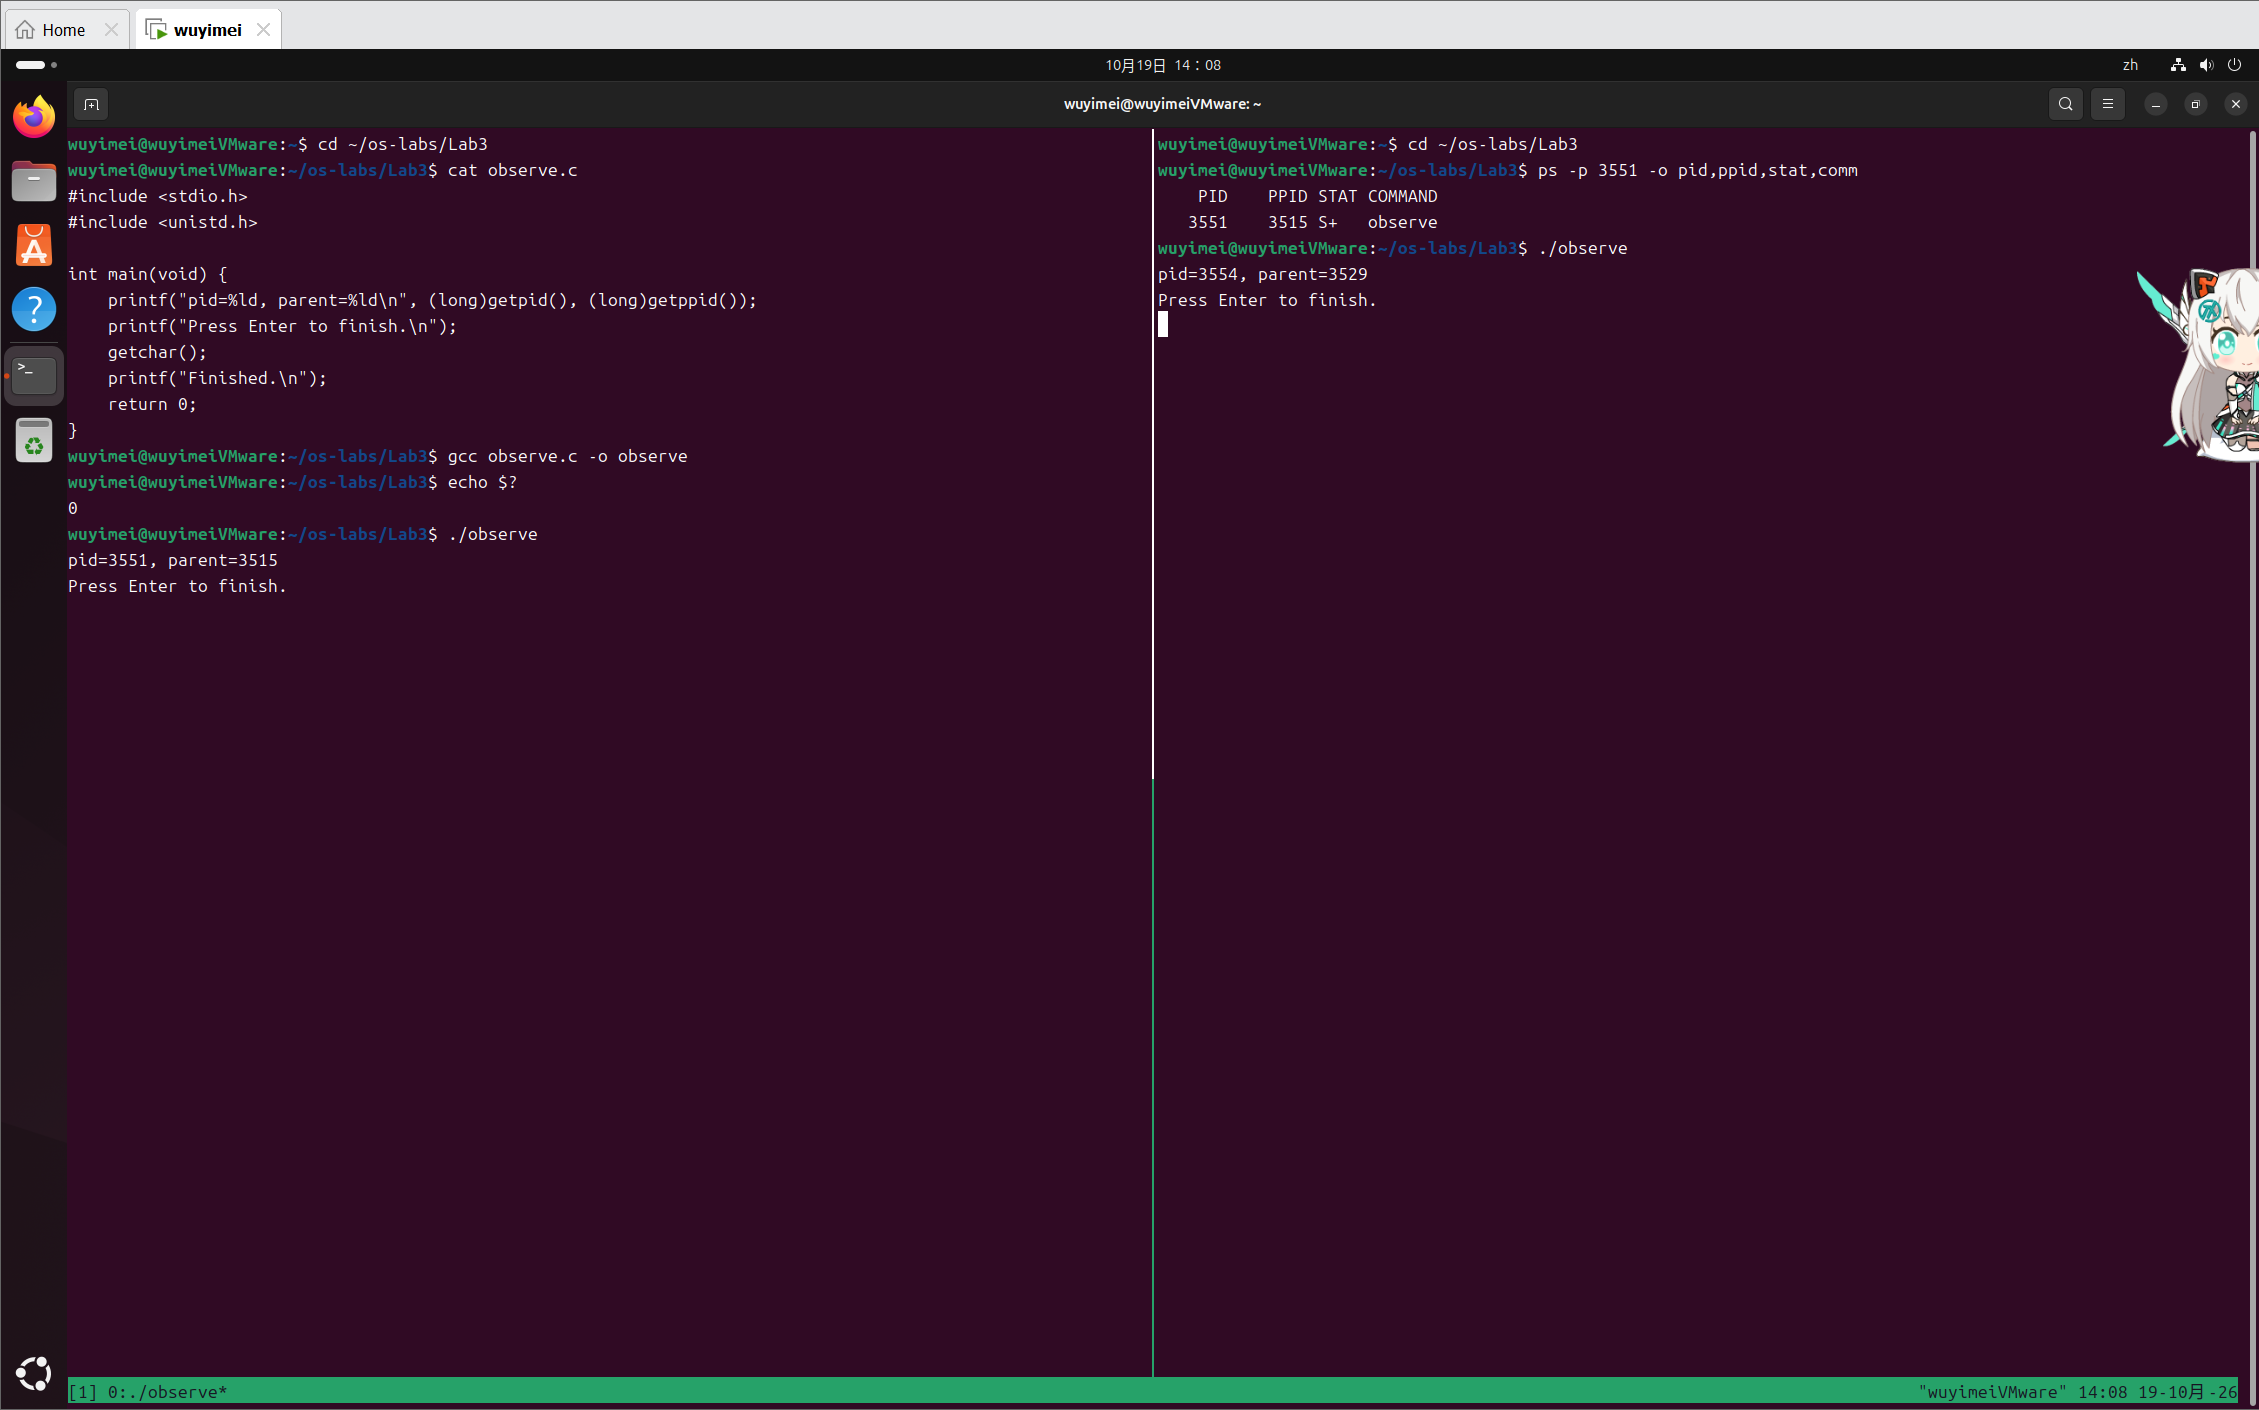
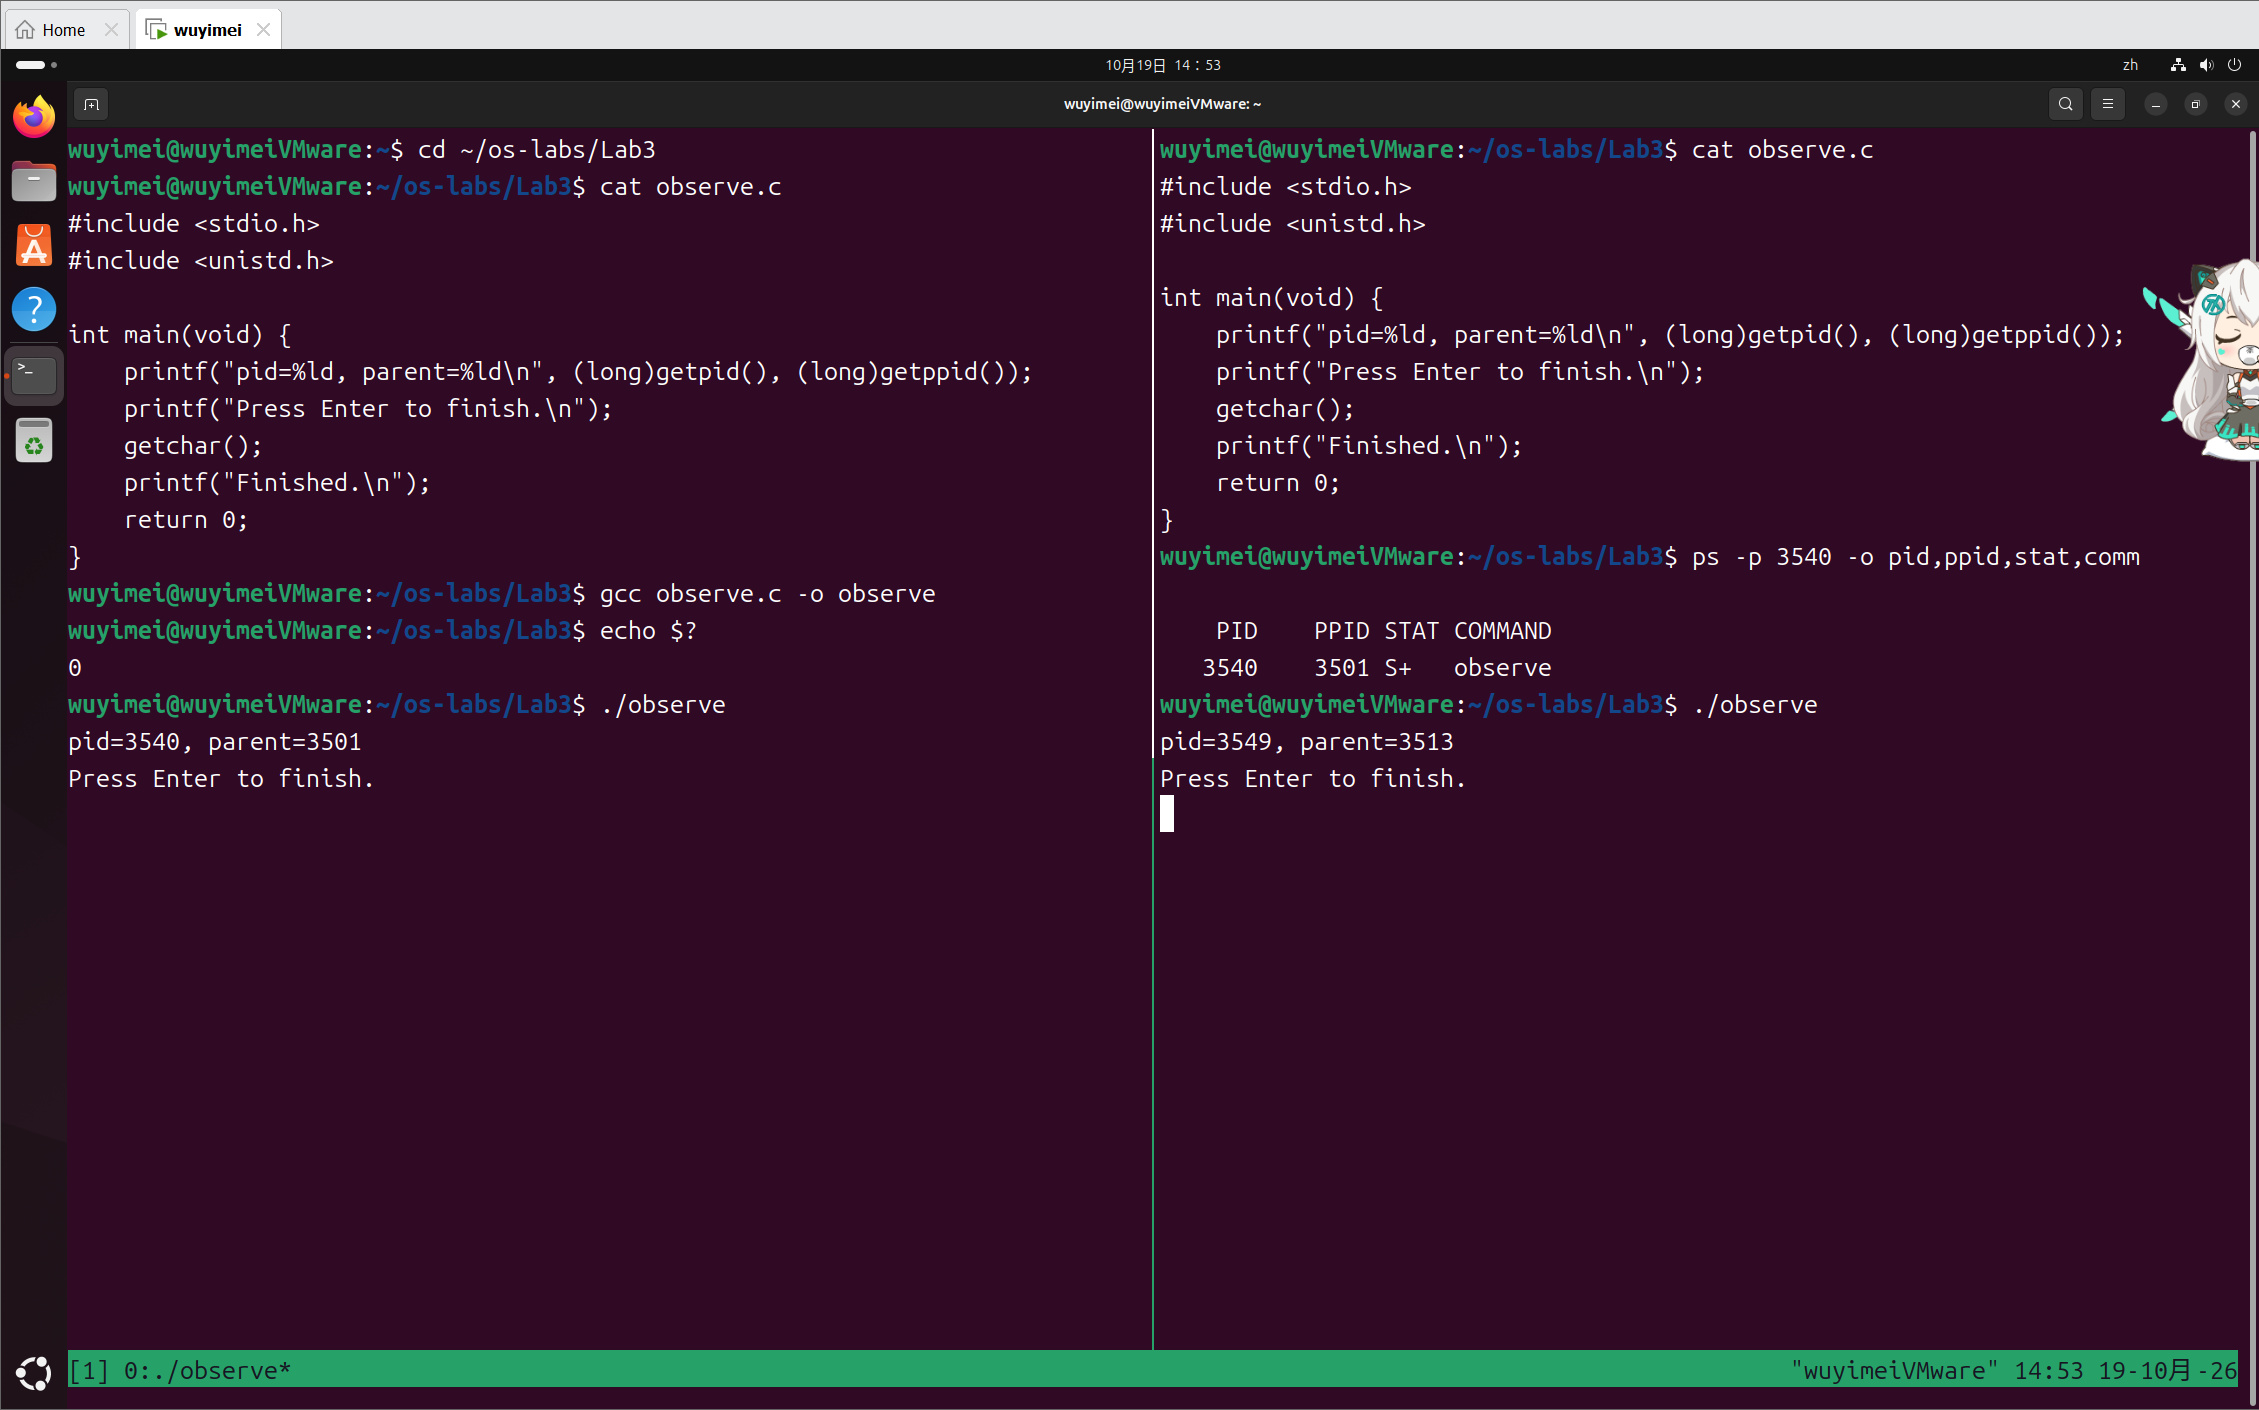
imgs

diff --git a/2026333038吴依镁/Lab3/Lab3.md b/2026333038吴依镁/Lab3/Lab3.md
@@ -250,8 +250,8 @@ ps -p 2401 -o pid,ppid,stat,comm
 
 | 字段 | observe 自己输出 | ps 查询输出 | 是否一致或如何解释 |
 | :--- | :--- | :--- | :--- |
-| PID | 3551|3551 |是 |
-| PPID | 3515| 3515|是 |
+| PID | 3540|3501 |是 |
+| PPID | 3540| 3501|是 |
 | STAT | 不由 observe 显示 |S+ |不一致，observe程序本身没有获取并打印进程状态的代码； S+ 表示该进程是前台可中断睡眠状态，由ps从内核进程表读取得到 |
 | COMM | 不由 observe 显示 | observe| 不一致，observe没有输出程序名的代码；COMM是ps读取内核记录的程序名，代表进程对应的可执行文件名称|
 
@@ -278,8 +278,8 @@ ps -p 2401 -o pid,ppid,stat,comm
 | 比较项 | A 中的运行 | B 中的运行 |
 | :--- | :--- | :--- |
 | 可执行文件名 | observe| observe|
-| 实际 PID |3551 |3554 |
-| 实际 PPID | 3515|3529 |
+| 实际 PID |3540 |3549 |
+| 实际 PPID | 3501|3513 |
 | 是否仍在等待回车 | 是| 是|
 
 **解释：**为什么同一份文件可以有两个 PID？两个 PPID 是否必须相同？结合你使用两个 Shell 的实际情况说明。
@@ -292,8 +292,8 @@ ps -p 2401 -o pid,ppid,stat,comm
 
 | 链路 | 父（Shell）的 PID | 子（observe）的 PID |
 | :--- | :--- | :--- |
-| 终端 A 这一支 | 填 A 输出里的 parent 数字 | 填 A 输出里的 pid 数字 |
-| 终端 B 这一支 | 填 B 输出里的 parent 数字 | 填 B 输出里的 pid 数字 |
+| 终端 A 这一支 | 3501| 3540 |
+| 终端 B 这一支 | 3513 | 3549 |
 
 **回答:** 两条链的「父」为什么是不同的数字？
 
@@ -323,7 +323,7 @@ echo $?
 
 | 项目 | 本人结果 |
 | :--- | :--- |
-| 结束后查询的实际命令 | ps -p 3551 -o pid,ppid,stat,comm|
+| 结束后查询的实际命令 | ps -p 3540 -o pid,ppid,stat,comm|
 | `ps` 实际输出/是否仍有数据行 |  PID    PPID STAT COMMAND/没有数据行|
 | 紧接 `ps` 的结束状态 |1 |
 | 磁盘上的 observe 文件是否仍然存在；怎样检查 | 仍然存在，执行  ls observe ，如果能列出文件名就说明文件还在磁盘上|
@@ -447,8 +447,8 @@ echo $?
 
 | 运行 | 子 pid | 子行中的 parent | 父完成行的 pid | 输出顺序 | 结束状态 |
 | :--- | :--- | :--- | :--- | :--- | :--- |
-| 第一次 | 3607|3606 |3606 | child行先输出，parent行后输出| 0|
-| 第二次 | 3609|3608 |3608 | child行先输出，parent行后输出| 0|
+| 第一次 | 3594|3593 |3593 | child行先输出，parent行后输出| 0|
+| 第二次 | 3596|3595 |3595| child行先输出，parent行后输出| 0|
 
 **回答：**
 
